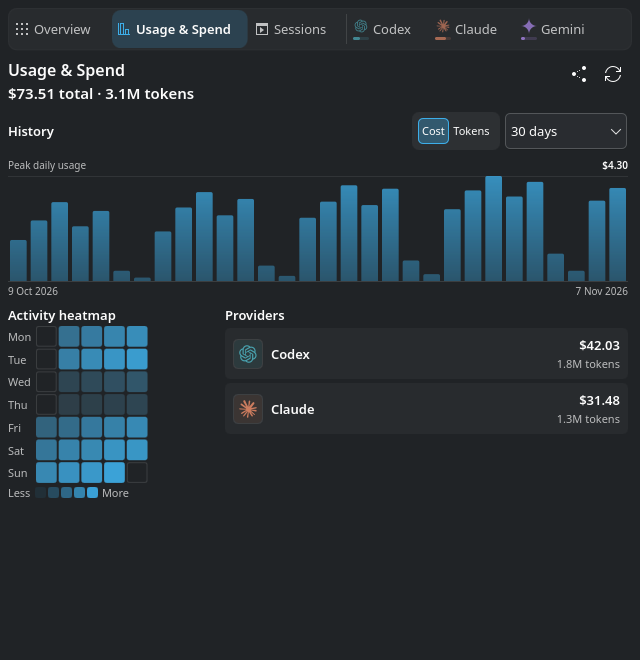
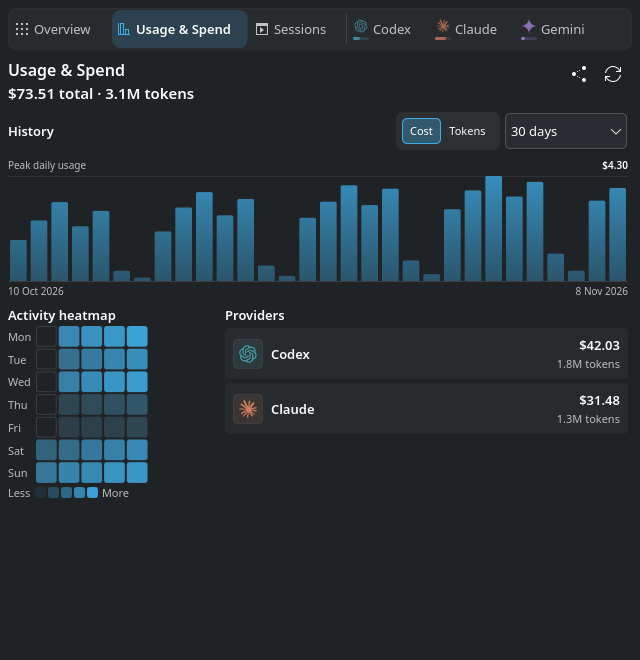
style(popup): even Cost/Tokens margins and header metadata spacing (#725)
Widen the Cost/Tokens segment padding so the checked frame has the same
inner margin horizontally as vertically, and halve the provider header's
account/plan column spacing so its separator matches the inline " · "
used by other popup metadata. Regenerate the Codex and Usage & Spend
README captures.

Changed region(s): [[0.0312, 0.4848, 0.25, 0.7273], [0.625, 0.1818, 0.75, 0.2424], [0.0, 0.4242, 0.0938, 0.4545]]

diff --git a/contents/ui/components/CostMetricToggle.qml b/contents/ui/components/CostMetricToggle.qml
@@ -43,6 +43,11 @@ Controls.Control {
 
                 text: modelData
                 font: Kirigami.Theme.smallFont
+                // The theme's padding hugs the checked frame around a small
+                // label; widen it so the frame gets the same inner margin
+                // horizontally that the label already has vertically.
+                leftPadding: Kirigami.Units.largeSpacing
+                rightPadding: Kirigami.Units.largeSpacing
                 checkable: true
                 checked: metricToggle.currentIndex === index
                 Accessible.name: modelData

diff --git a/contents/ui/components/ProviderHeader.qml b/contents/ui/components/ProviderHeader.qml
@@ -129,7 +129,9 @@ RowLayout {
             // Capped labels must not cap the grid after its filler disappears.
             Layout.maximumWidth: Infinity
             columns: stacked ? 1 : 4
-            columnSpacing: Kirigami.Units.smallSpacing
+            // The dot's own side bearings already separate it, so half the
+            // usual gap matches the inline " · " used by other popup metadata.
+            columnSpacing: Kirigami.Units.smallSpacing / 2
             rowSpacing: Kirigami.Units.smallSpacing / 2
 
             PlainPlasmaLabel {

diff --git a/CHANGELOG.md b/CHANGELOG.md
@@ -26,6 +26,8 @@ For earlier versions, see [GitHub Releases](https://github.com/Lucenx9/codexbar-
 
 ### Changed
 
+- Give the Cost/Tokens switch even inner margins and space the provider
+  header's account and plan like other popup metadata.
 - Keep Popup settings focused on content and provider navigation. Move hidden
   detail sections and usage rows to a collapsed **Hidden items** section at the
   bottom, with live counts and pending restores preserved. Show the Overview
